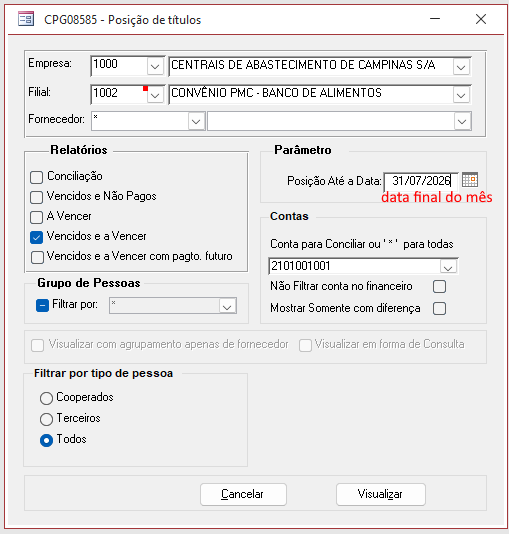
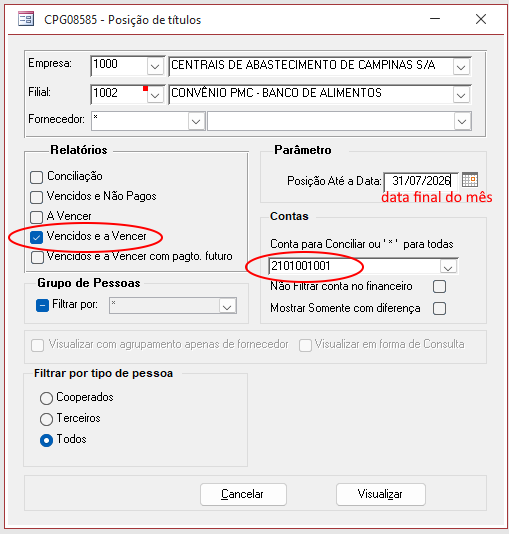
começando a documentar fechamento de estoque e fornecedores

diff --git a/html/fechamento_estoque.html b/html/fechamento_estoque.html
@@ -1,0 +1,72 @@
+
+* FECHAMENTO DE ESTOQUE / ALMOXARIFADO *
+
+Abra o módulo contabilidade, Filial 1000
+
+Tirar o Razão do mês em questão para a conta 1102005001 - Almoxarifado - Ceasa
+
+Exporta para o Excel e deletar dentro da planilha a linha do lançamento "Ajuste preço médio estoque" (para que esse valor não influencie o nosso cálculo)
+
+Abra o módulo Estoque escolhendo a filial 1000
+
+Transações -> Auditoria de estoque por produto
+
+Depósito 1002
+
+Processar
+
+Fechar a caixa de diálogo e repita o procedimento para 1001 e 1000
+
+Terminado o fechamento para as 3 filias, ir em:
+
+Relatórios -> Inventário -> Inventário e fechamento de período
+
+Selecionar Modalidade = Provisória
+
+Filial 1000
+
+Posição em = último dia do mês
+
+
+<img src="../static/images/fechamento_de_estoque_almoxarifado.png" />
+
+
+Desprezar o PDF da 1002
+Salvar os PDFs da 1000 e 1001 na pasta C:\Users\gabriel.moraes\OneDrive - CENTRAIS DE ABASTECIMENTO DE CAMPINAS SA\Contabilidade\Inventário
+
+OBS: preciso anotar aqui se o PDFs que salva é o primeiro ou o segundo que abre!
+
+OBS 2: não sei se eu tenho que salvar esse Excel também junto com os PDFs acima! (acho que na verdade eu tenho que pegar o relatório excel na remissão do inventário conforme descrito abaixo)
+
+Agora vamos gerar o definitivo:
+
+Marcar a Modalidade como "Definitiva"
+
+Selecionar o exercício
+
+Clicar em executar
+<img src="../static/images/fechamento_de_estoque_almoxarifado_definitivo.png" />
+
+Feito tudo isso, precisa colocar a planilha de estoque e a planilha do razão depois de feito o ajuste da diferença no lote de fechamento
+Para colocar no Excel, pegar o relatório em 
+
+Relatório -> Remissão de inventário -> Período , Empresa , Filial
+
+
+<img src="../static/images/fechamento_de_estoque_almoxarifado_remissao.png" />
+
+Finalizada essa parte, é preciso ir no lotes fazer as transferências entre filiais
+
+Filial 1001
+Contabilidade – filial 1001 – Relatórios – razão – filial 1001 – data mês todo – conta 9 (primeira conta) – Executar – Visualizar – valor total de crédito
+Home – Transações – dig. De lote – último dia do mês – binóculo – abrir – procurar (valor em débito) – copiar valor em crédito – mudar documento (mês) – fechar 
+
+Conferir se zerou:
+Contabilidade – filial 1001 – Relatórios – razão – filial 1001 – data mês todo – conta 9 (primeira conta) – Executar – Visualizar – valor total de crédito
+
+Filial 1000
+Contabilidade – filial 1000 – Relatórios – razão – filial 1000 – data mês todo – conta 9 (primeira conta) – Executar – Visualizar – valor total de crédito
+Home – Transações – dig. De lote – último dia do mês – binóculo – abrir – procurar (valor em débito 1001) – copiar valor em crédito 1001 – mudar documento (mês) – fechar 
+
+
+

diff --git a/html/fechamento_fornecedores.html b/html/fechamento_fornecedores.html
@@ -33,11 +33,16 @@ Clicar em visualizar.
 
 Vão abrir dois relatórios. Apenas feche o primeira para que o segundo relatório seja exibido.
 
-Agora exporte o relatório para a pasta:
+Agora exporte o PDF do relatório para a pasta:
 
 C:\Users\gabriel.moraes\OneDrive - CENTRAIS DE ABASTECIMENTO DE CAMPINAS SA\Contabilidade\Fornecedores\07 - julho
 
 Repetir o procedimento para cada uma das filiais.
+
+
+
+=============
+Quando terminar é preciso confrontar o saldo dos 3 PDFs salvos acima com o razão da contabilidade da conta Fornecedores
 </pre>
 	</body>
 </html>

diff --git a/index.html b/index.html
@@ -22,6 +22,8 @@
 		
 		<li class="mainli"><a class="maina" href="html/divisao_txt_folha.html">Divisão TXT Folha de Pagamento</a></li>
 		
+		<li class="mainli"><a class="maina" href="html/fechamento_estoque.html">Fechamento do Estoque</a></li>
+
 		<li class="mainli"><a class="maina" href="html/fechamento_fornecedores.html">Fechamento Fornecedores</a></li>
 		
 		</ul>
